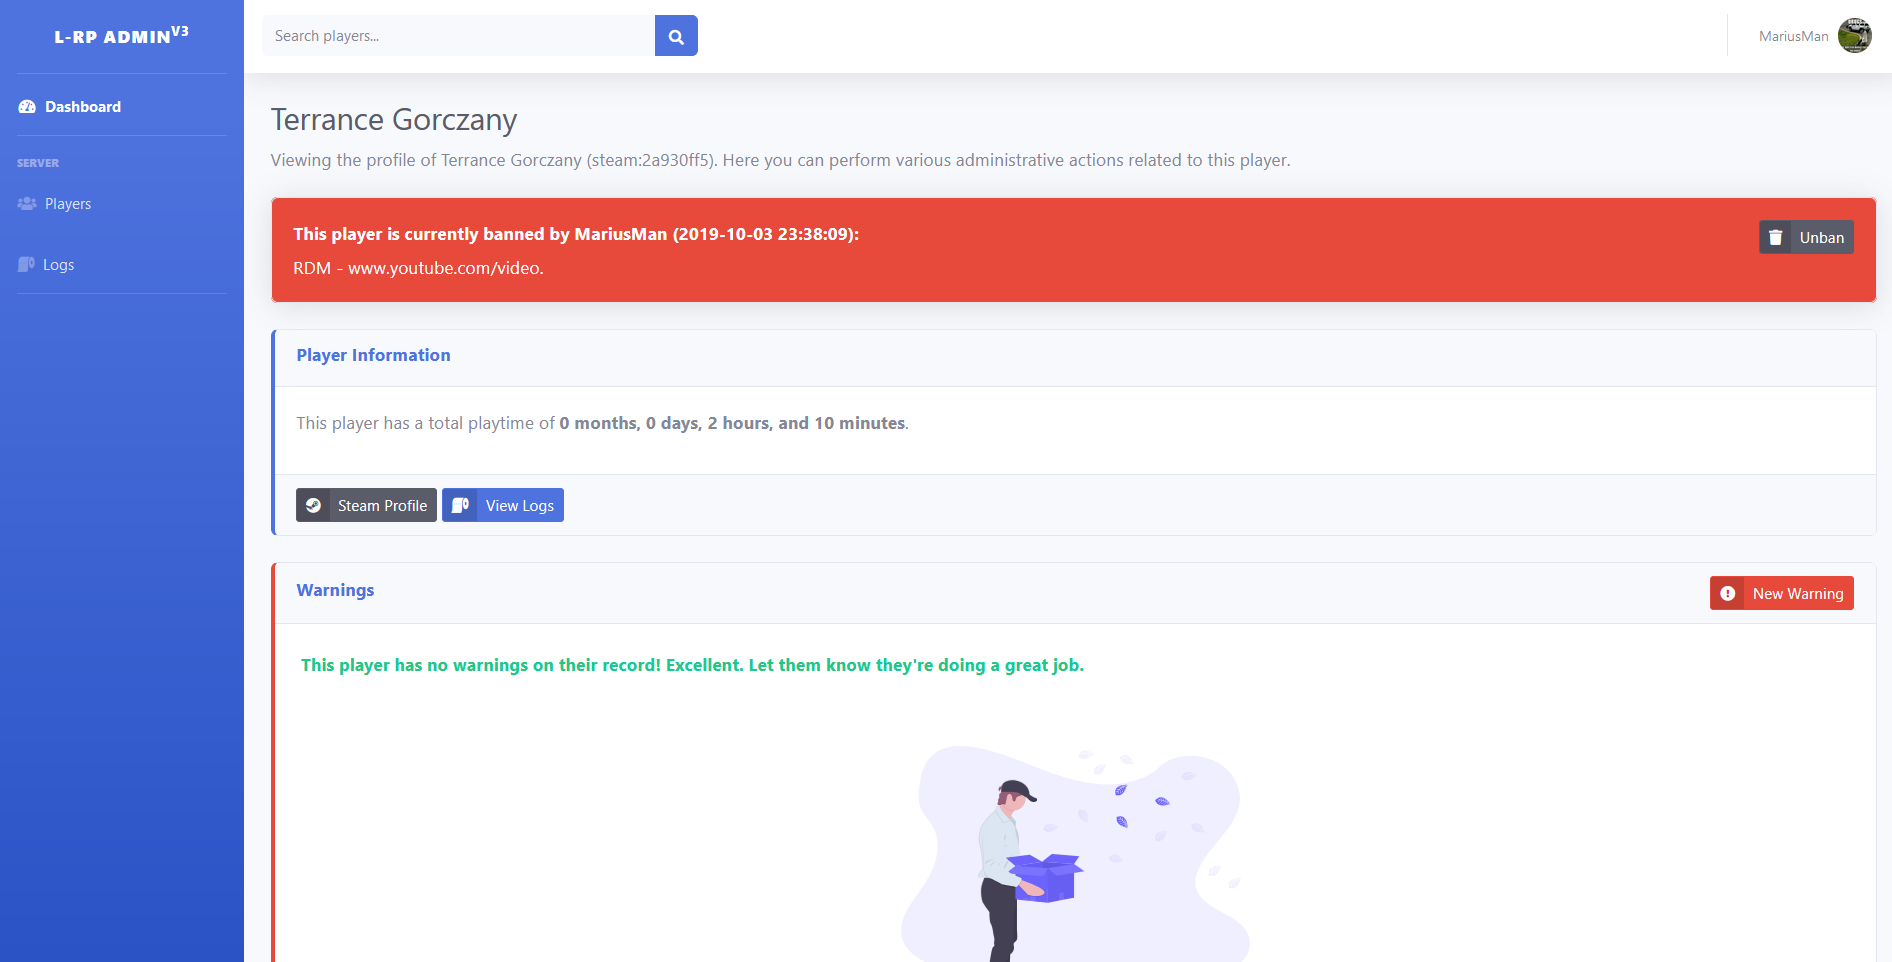
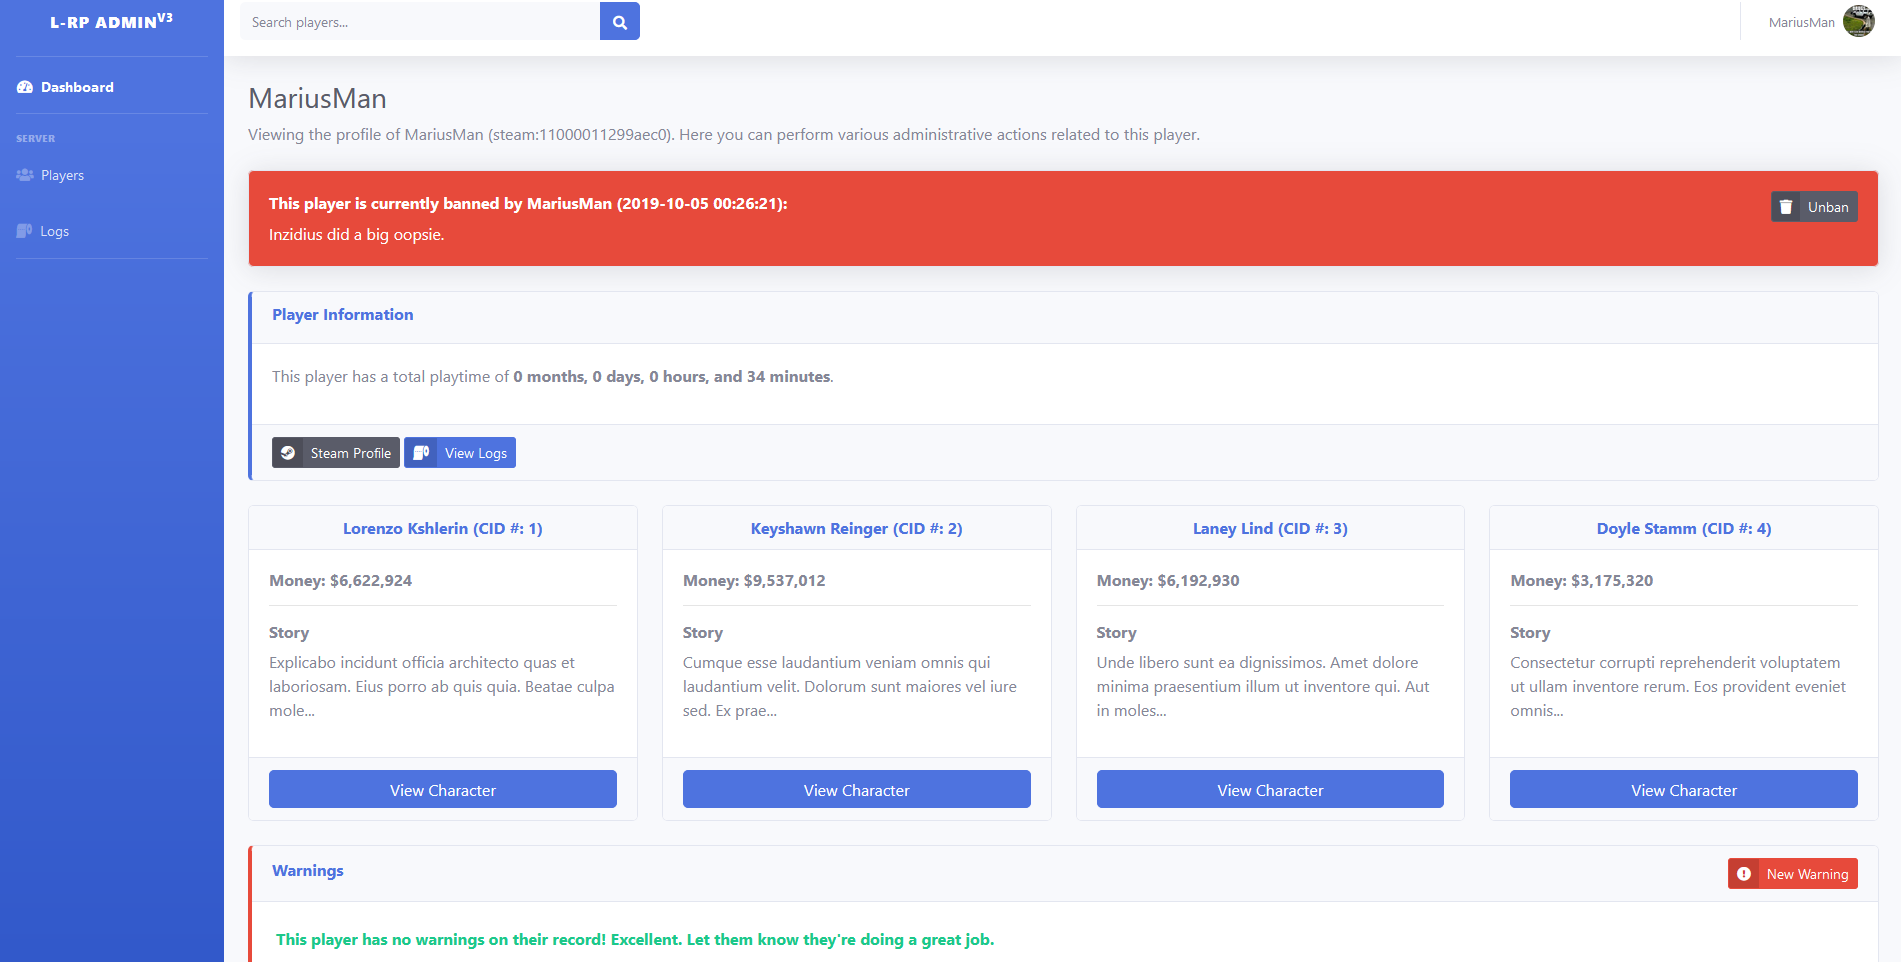
character cards, need to do the page also -- modal shaking fixed

diff --git a/resources/js/bootstrap.js b/resources/js/bootstrap.js
@@ -10,7 +10,9 @@ try {
     window.Popper = require('popper.js').default;
     window.$ = window.jQuery = require('jquery');
 
+    // Require bootstrap and theme JavaScript.
     require('bootstrap');
+    require('startbootstrap-sb-admin-2/js/sb-admin-2');
 } catch (e) {}
 
 /**

diff --git a/resources/sass/app.scss b/resources/sass/app.scss
@@ -19,3 +19,9 @@
     background-repeat: no-repeat;
     background-size: cover;
 }
+
+/* fixes the "shake" when you open bootstrap modal */
+.modal-open {
+    padding-right: 0 !important;
+    overflow-y: auto;
+}

diff --git a/resources/views/players/show.blade.php b/resources/views/players/show.blade.php
@@ -10,7 +10,7 @@
 @endsection
 
 @section('main')
-
+    <!-- Displaying of ban -->
     @if ($ban = $player->bans()->first())
         <div class="row">
             <div class="col mb-4">
@@ -111,6 +111,41 @@
         </div>
     </div>
 
+    <!-- Characters -->
+    <div class="row">
+        @foreach ($player->characters as $character)
+            <div class="col-md-6 col-xl-3 mb-4">
+                <div class="card h-100">
+                    <!-- Header -->
+                    <div class="card-header text-center">
+                        <h6 class="text-primary font-weight-bold m-0">{{ $character->name }} (CID #: {{ $character->cid }})</h6>
+                    </div>
+                    <!-- Body -->
+                    <div class="card-body">
+                        <!-- Other info -->
+                        <h6 class="font-weight-bold">
+                            Money: ${{ number_format($character->money) }}
+                        </h6>
+                        <hr>
+                        <!-- Story -->
+                        <div>
+                            <h6 class="font-weight-bold">Story</h6>
+                            <p>
+                                {{ Str::limit($character->story, 100) }}
+                            </p>
+                        </div>
+                    </div>
+                    <!-- Footer -->
+                    <div class="card-footer">
+                        <a class="btn btn-block btn-primary" href="#">
+                            View Character
+                        </a>
+                    </div>
+                </div>
+            </div>
+        @endforeach
+    </div>
+
     <!-- Warnings -->
     <div class="row">
         <div class="col mb-4">
@@ -177,7 +212,7 @@
 
         @component('modal', [ 'target' => 'warningModal' ])
             @slot('title')
-                Add a warning to {{ $player->name }}!
+                Add a warning to {{ $player->name }}
             @endslot
 
             @slot('actions')

diff --git a/database/factories/CharacterFactory.php b/database/factories/CharacterFactory.php
@@ -1,0 +1,28 @@
+<?php
+
+/** @var Factory $factory */
+
+use App\Character;
+use Faker\Generator as Faker;
+use Illuminate\Database\Eloquent\Factory;
+
+$factory->define(Character::class, function (Faker $faker) {
+    return [
+        'firstname' => $faker->firstName,
+        'lastname'  => $faker->lastName,
+        'gender'    => $faker->randomElement([ 'male', 'female', 'non-binary' ]),
+        'dob'       => $faker->date(),
+        'height'    => $faker->numberBetween(150, 200),
+        'cash'      => $faker->randomFloat(2, 100, 5000000),
+        'bank'      => $faker->randomFloat(2, 100, 10000000),
+        'job'       => $faker->jobTitle,
+        'story'     => $faker->text,
+
+        'basicneeds' => [],
+        'licenses'   => [],
+        'model'      => [],
+        'tattoos'    => [],
+        'ammo'       => [],
+        'animations' => []
+    ];
+});

diff --git a/resources/views/layouts/app.blade.php b/resources/views/layouts/app.blade.php
@@ -21,11 +21,8 @@
 </head>
 
 <body>
-    <!-- Application wrapper -->
-    <div id="app">
-        <!-- Page content -->
-        @yield('content')
-    </div>
+    <!-- Page content -->
+    @yield('content')
 
     <!-- Scripts -->
     <script src="{{ asset('/js/app.js') }}"></script>
